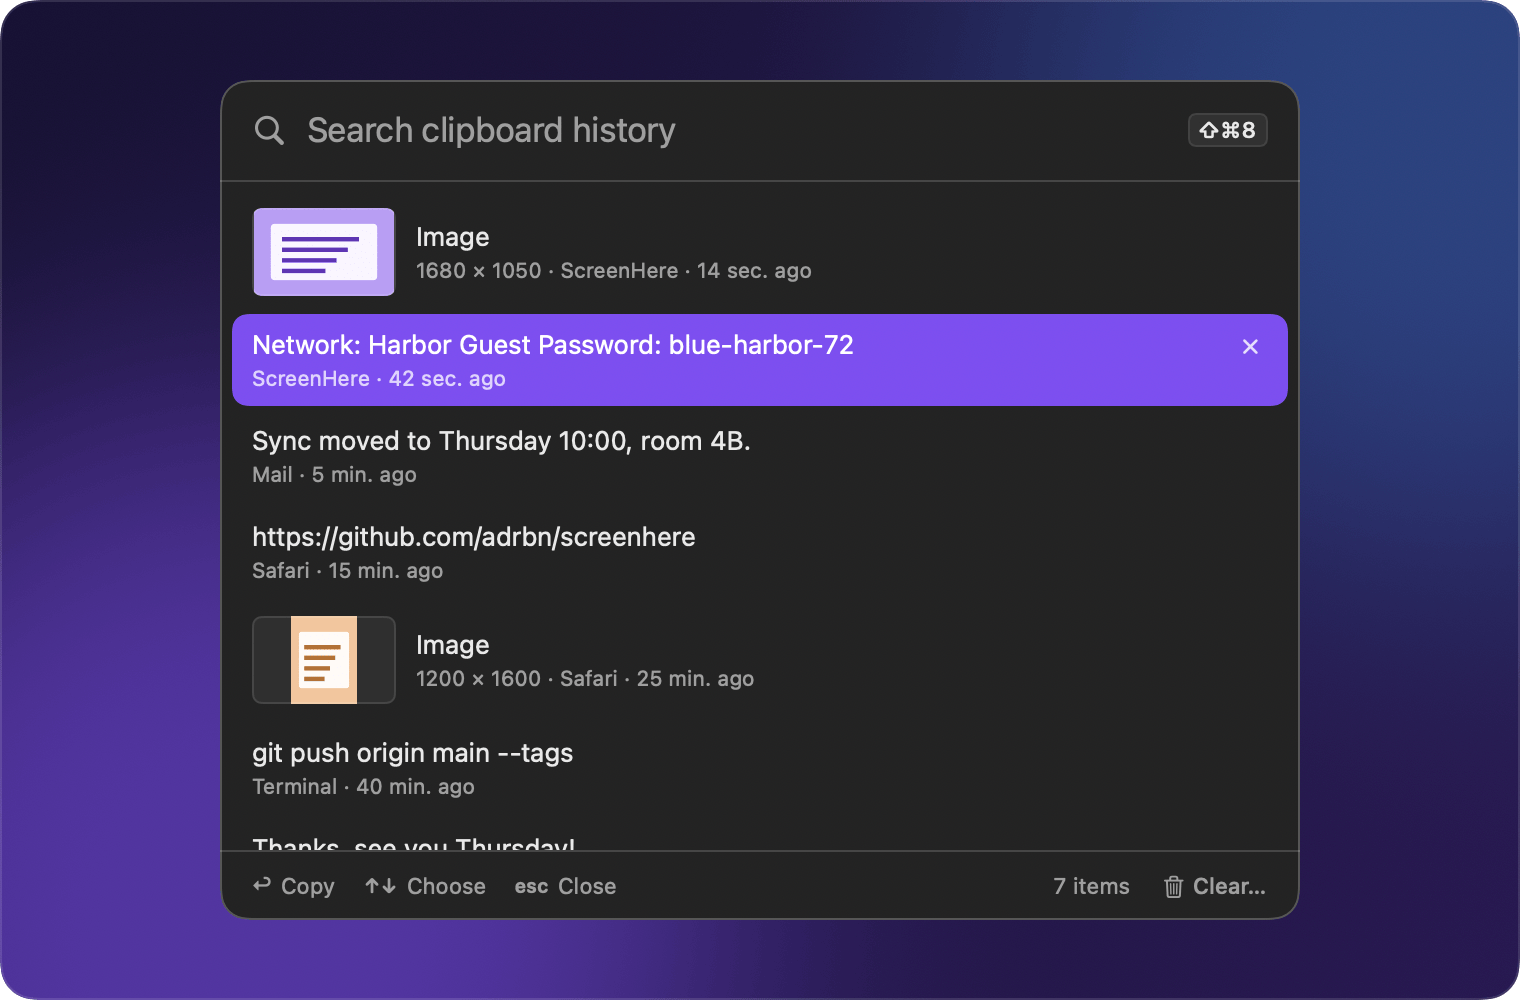
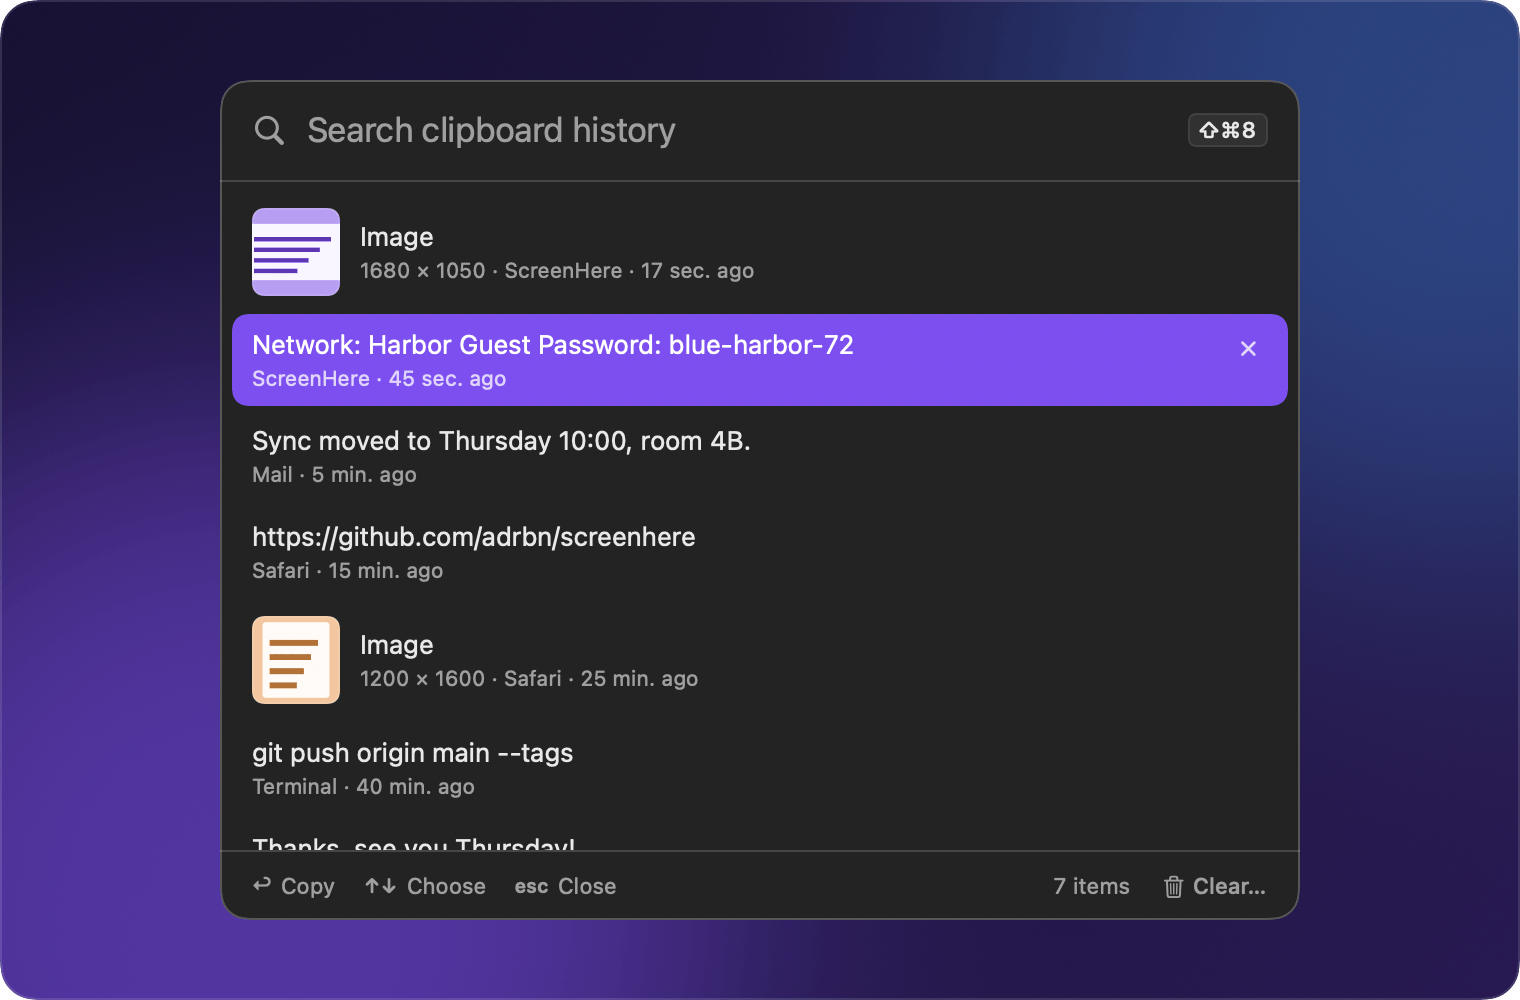
docs: the clipboard history's pictures can be dragged out or saved

Changed region(s): [[0.1546, 0.186, 0.5257, 0.31], [0.1546, 0.62, 0.4947, 0.713]]

diff --git a/README.md b/README.md
@@ -66,7 +66,7 @@ Drag over text you can see but can't select: a shared screen, a video, a photo, 
   <img src="docs/assets/history-light.png" width="760" alt="The clipboard history: a searchable list of recently copied texts, links and images" />
 </picture>
 
-The last 200 texts and images you copied, in a list under your pointer. Type to filter, press <kbd>Return</kbd>, paste. Off until you turn it on.
+The last 200 texts and images you copied, in a list under your pointer. Type to filter, press <kbd>Return</kbd>, paste. A picture can also be dragged out into any app, or saved to your Downloads folder. Off until you turn it on.
 
 ## Private by design
 
